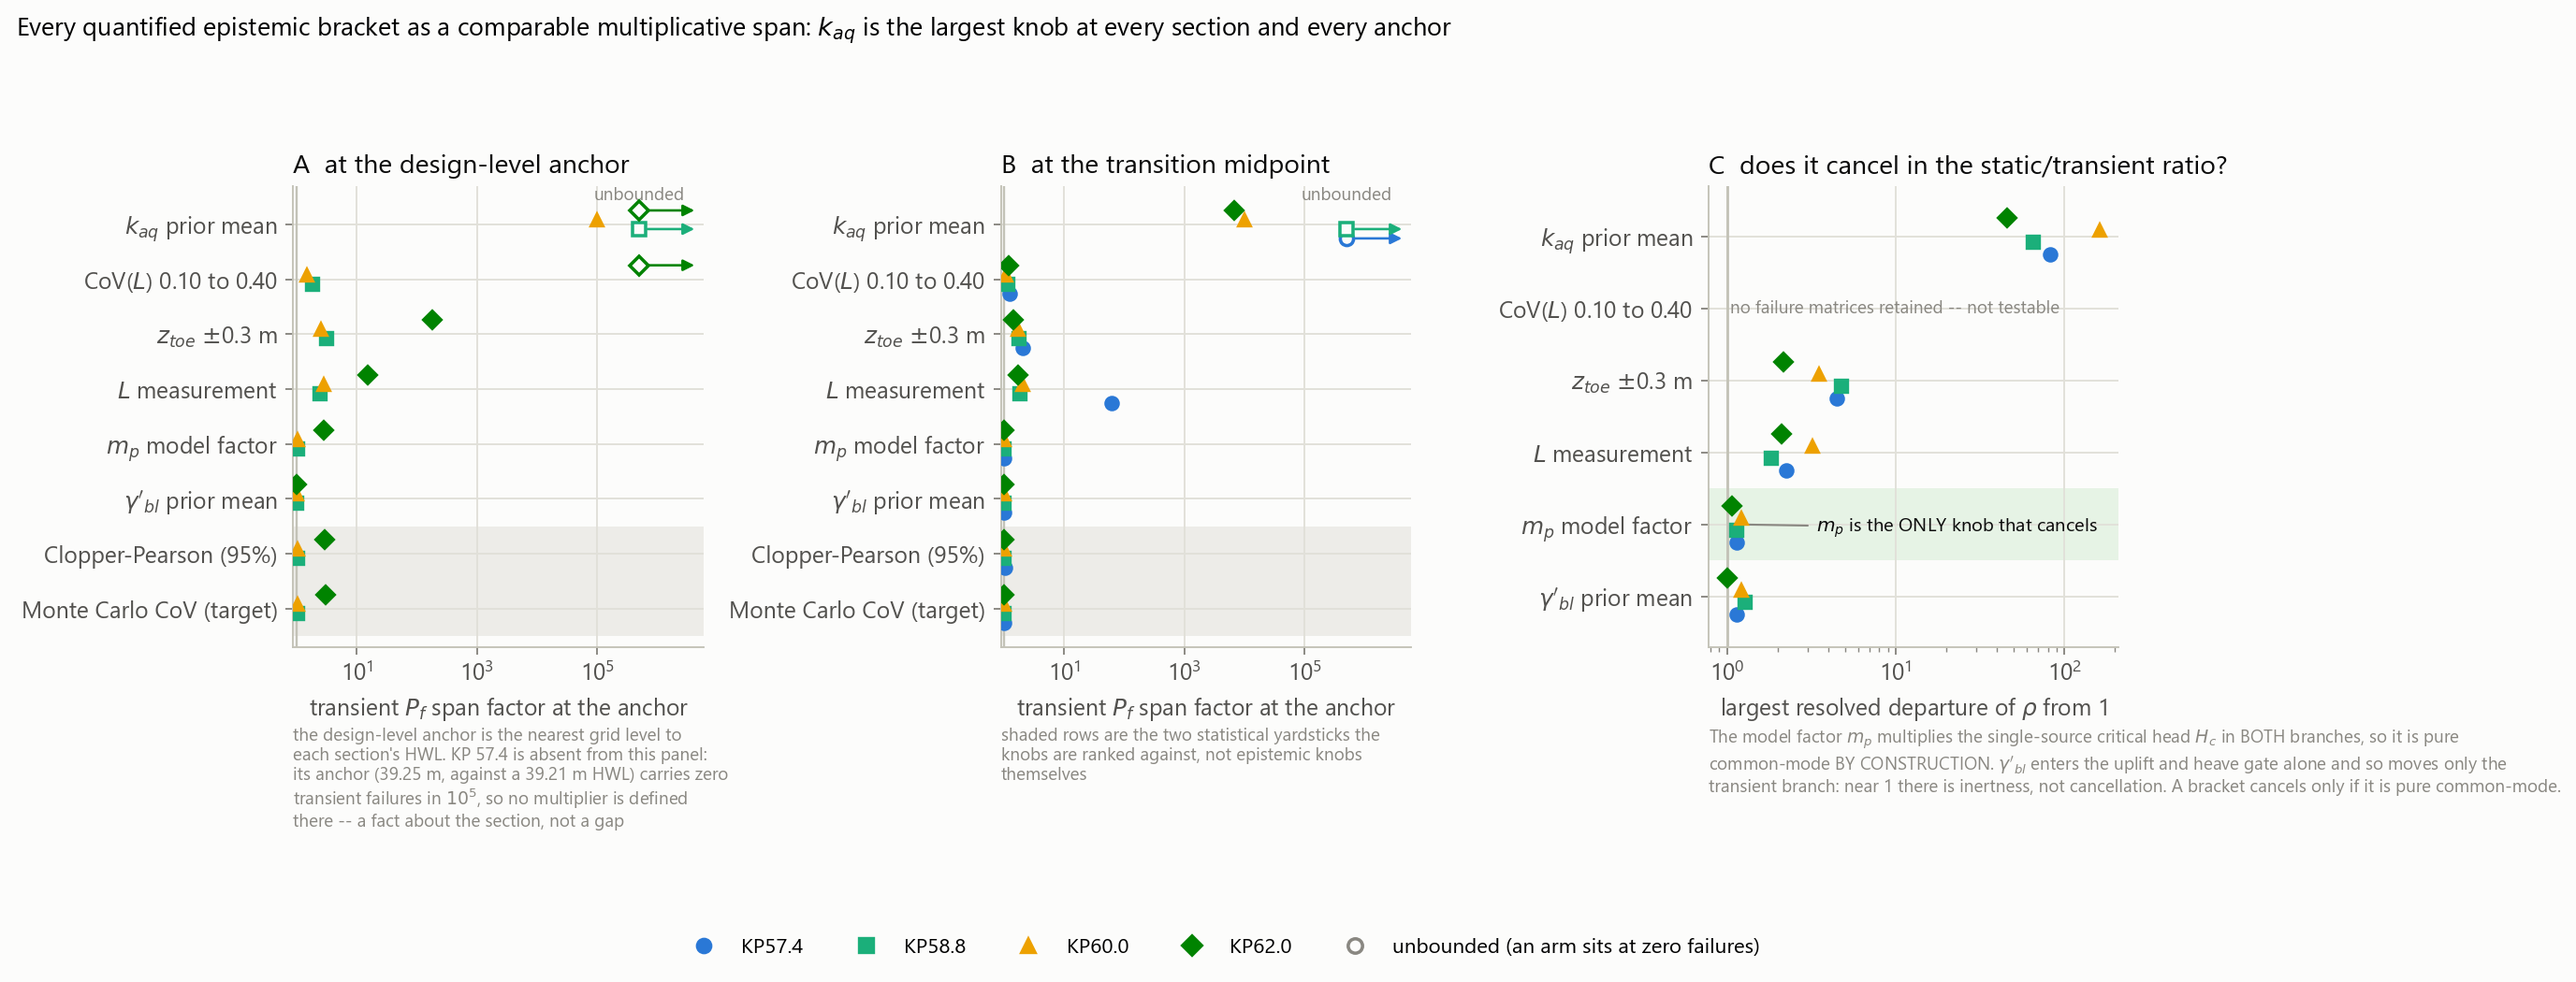
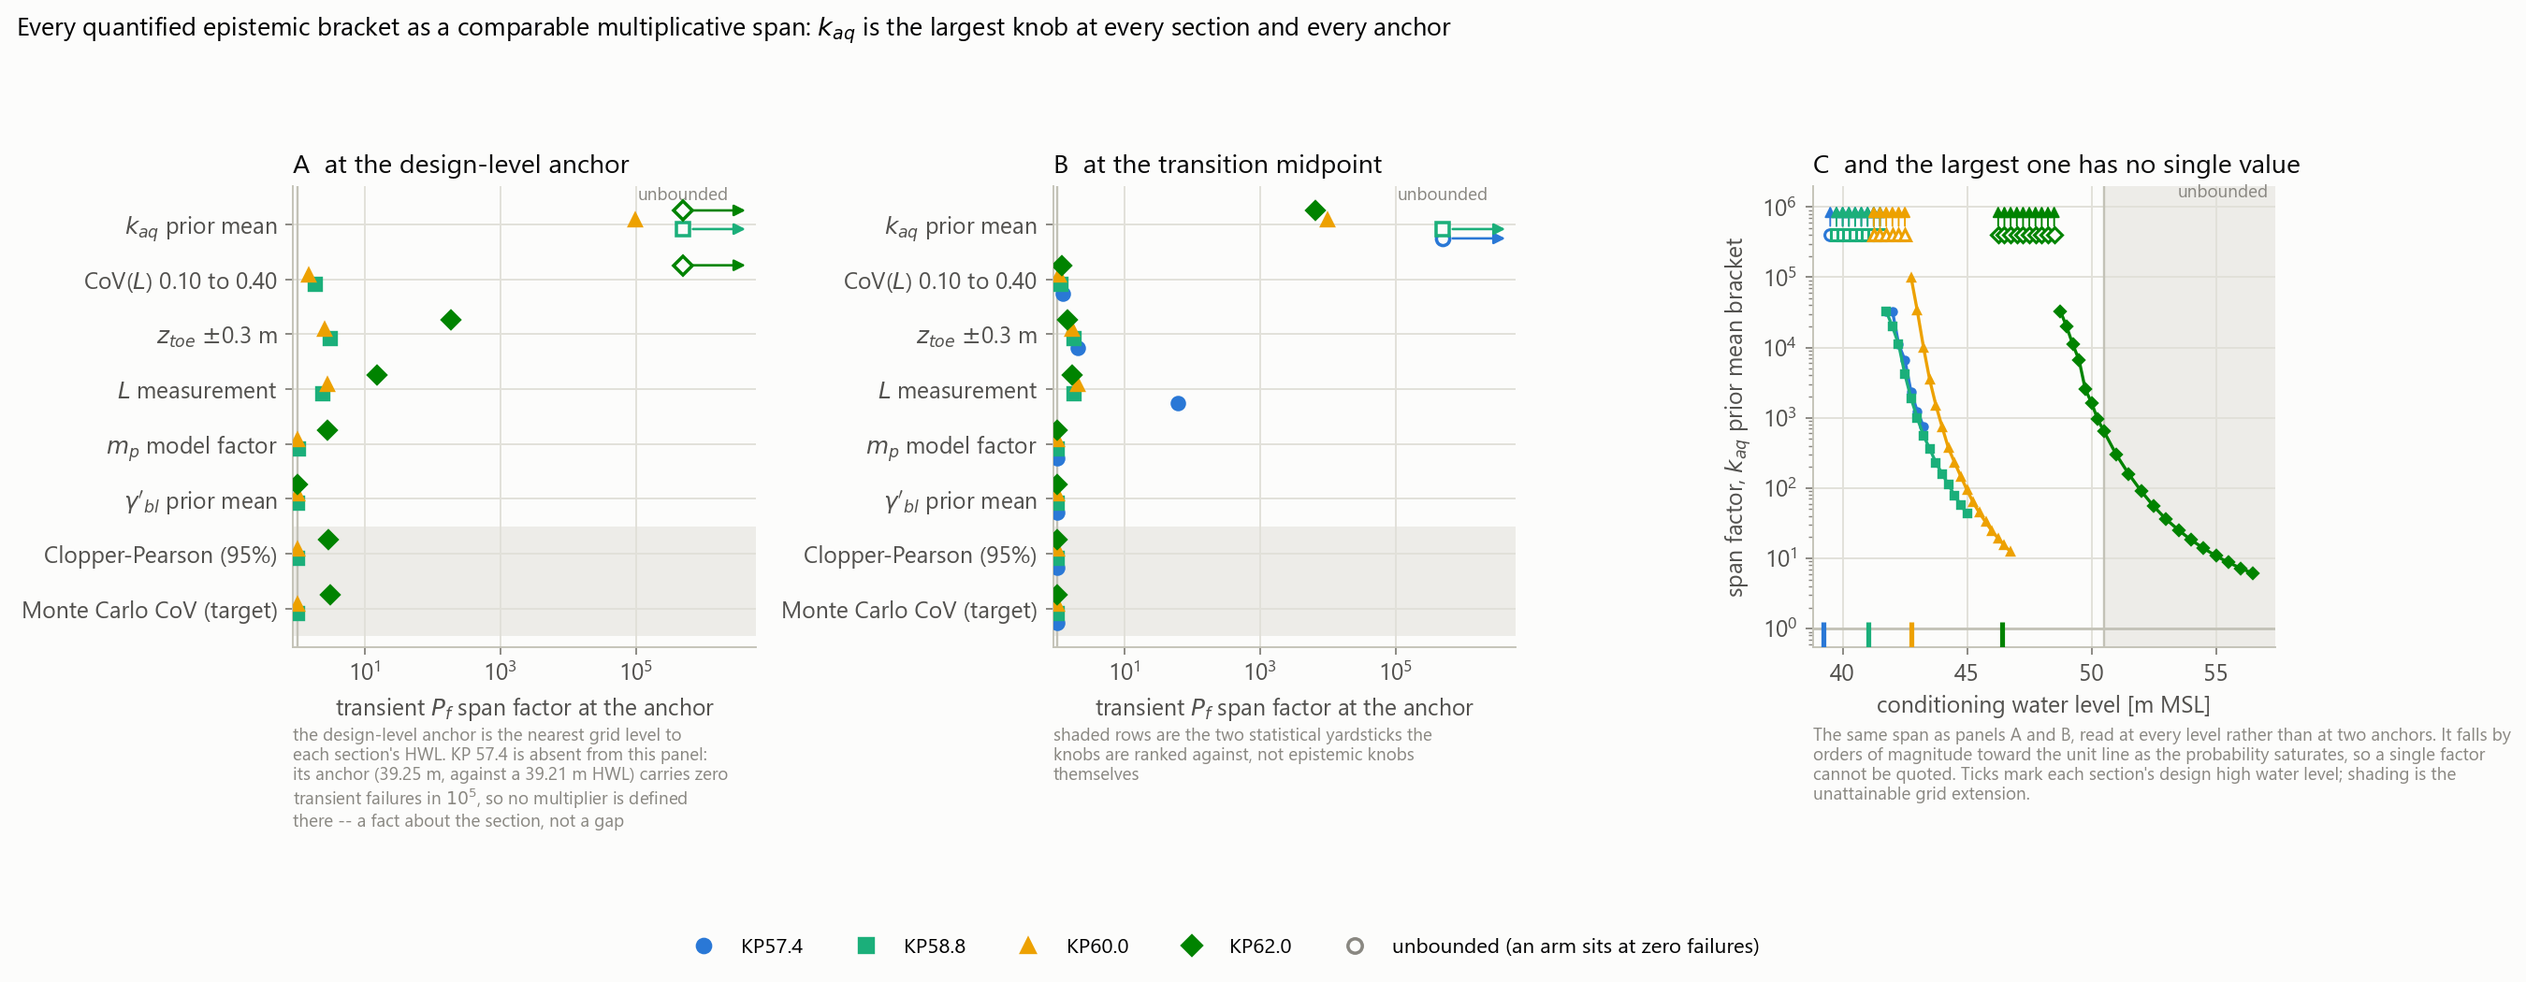
Replace the duplicated cancellation panel with the conductivity stage curve
A coherence audit of the thesis found panel C of epistemic_bracket_ranking.png
and the right panel of epistemic_vs_statistical.png plotting the same
quantity: the largest resolved ratio-of-ratios departure per bracket, over the
same four sections, from the same record. The bar panel is the better of the
two, because it carries the Clopper-Pearson yardstick on the same axis, so
panel C is the one to change.

Panel C now takes the bracket that wins the ranking in panels A and B and
plots the same span across the whole conditioning grid. That is the one claim
the thesis makes about that bracket and shows nowhere: it spans orders of
magnitude at the low-stage end and collapses toward the unit line as the
conditional probability saturates, so no single factor for it exists.

Every value comes from the committed record: grid_m_msl and
P_f_trans_baseline_curve per section, P_f_trans_arm per arm per level, and
hwl_m_msl for the axis ticks. The new _bracket_span_curve reproduces the
record's own ratio_min and ratio_max at all five anchors of all four sections,
which is the provenance gate on the curve, and it keeps unbounded (an arm at
zero failures) apart from not defined (the baseline at zero failures) exactly
as _span_cell does.

The cancellation numbers are not lost with the panel. They stay in this
figure's own table source, in the cancellation_arm and
max_resolved_departure_factor columns, which is why the CSV is byte-identical
[…]

diff --git a/scripts/thesis_figure_gaps.py b/scripts/thesis_figure_gaps.py
@@ -800,6 +800,48 @@ def _span_cell(section: dict[str, Any], bracket: str, anchor: str) -> dict[str, 
     }
 
 
+def _bracket_span_curve(section: dict[str, Any], bracket: str) -> list[dict[str, Any]]:
+    """The bracket's multiplicative span at *every* conditioning level.
+
+    ``_span_cell`` reads the span the record precomputes at its five named
+    anchors. This forms the same quantity over the whole grid, which the record
+    stores in the form it costs least to store: the stage grid and the baseline
+    curve once per section, and each arm's own ``P_f_trans_arm`` per level. The
+    span is the largest transient failure probability any arm of the bracket
+    produces divided by the smallest, both relative to the same baseline, so it
+    is identical whether it is formed from the probabilities or from the ratios.
+
+    Reproduces the record's own ``ratio_min`` and ``ratio_max`` at all five
+    anchors of all four sections, which is the provenance gate on this curve.
+
+    The two ways a number goes missing are kept apart exactly as in
+    ``_span_cell``: a level whose *baseline* carries no failure yields no
+    multiplier of any kind and is dropped, while a level where an *arm* sits at
+    zero failures is retained and marked ``unbounded``.
+    """
+    grid = section["grid_m_msl"]
+    baseline = section["P_f_trans_baseline_curve"]
+    arm_levels = [
+        section["arms"][arm]["levels"] for arm in section["brackets"][bracket]["arms"]
+    ]
+
+    curve: list[dict[str, Any]] = []
+    for index, stage in enumerate(grid):
+        base = float(baseline[index])
+        if base <= 0.0:
+            continue
+        ratios = [float(levels[index]["P_f_trans_arm"]) / base for levels in arm_levels]
+        low, high = min(ratios), max(ratios)
+        curve.append(
+            {
+                "stage_m_msl": float(stage),
+                "unbounded": low <= 0.0,
+                "span": None if low <= 0.0 else high / low,
+            }
+        )
+    return curve
+
+
 def _cancellation_by_bracket(section: dict[str, Any]) -> dict[str, dict[str, Any]]:
     """Per bracket, the worst resolved ratio-of-ratios departure over its arms.
 
@@ -855,11 +897,22 @@ def _bracket_order(sections: list[dict[str, Any]]) -> list[str]:
 def figure_epistemic_ranking(
     synthesis: dict[str, Any], attainable_max_kp62: float
 ) -> tuple[Path, list[dict[str, Any]]]:
-    """The brackets, four sections, ranked -- plus which one actually cancels.
+    """The brackets, four sections, ranked -- and the winner's stage dependence.
 
     Panels A and B are the ranking at the two anchors that carry the thesis's
-    claims. Panel C is the separate question the same study answered: whether a
-    bracket cancels when the static and transient branches are divided.
+    claims. Panel C takes the bracket that wins that ranking and plots its span
+    across the whole conditioning grid, which is the one claim the text makes
+    about it that no figure showed: it spans orders of magnitude at the
+    low-stage end and collapses toward unity as the conditional probability
+    saturates, so no single factor for it exists.
+
+    Panel C carried the cancellation test until 2026-08-15, when a coherence
+    audit found it drew the same quantity as the bar panel of
+    ``epistemic_vs_statistical.png``, which additionally carries the
+    Clopper-Pearson yardstick on the same axis and is therefore the better of
+    the two. The cancellation numbers are not lost with the panel: every one of
+    them stays in this figure's own table source, in the ``cancellation_arm``
+    and ``max_resolved_departure_factor`` columns built below.
     """
     sections = {s["section"]: s for s in synthesis["sections"]}
     ordered = _bracket_order(synthesis["sections"])
@@ -985,68 +1038,108 @@ def figure_epistemic_ranking(
         va="top",
     )
 
-    # --- Panel C: does the bracket cancel in the static/transient ratio? ----- #
+    # --- Panel C: the top knob has no single value, it depends on stage ------ #
+    # Panels A and B are two stage slices of the ranking; this is the whole
+    # stage axis for the knob that wins it. The bracket is the same quantity
+    # those panels plot, so the panel needs no second definition: what it adds
+    # is that the number they report is a reading off a curve, not a constant.
+    # ``ordered`` is computed from the evidence, so the panel draws whichever
+    # bracket the ranking actually puts first.
     axc = axes[2]
-    for row, bracket in enumerate(ordered):
-        y = len(ordered) - 1 - row
-        if bracket == COMMON_MODE_BRACKET:
-            axc.axhspan(
-                y - 0.5, y + 0.5, color=figstyle.GOOD, alpha=0.09, lw=0, zorder=0
-            )
-        drawn = 0
-        for name in SECTIONS:
-            record = cancellation[name].get(bracket)
-            if record is None:
-                continue
-            drawn += 1
+    largest = ordered[0]
+    curves = {name: _bracket_span_curve(sections[name], largest) for name in SECTIONS}
+
+    spans = [
+        float(point["span"])
+        for curve in curves.values()
+        for point in curve
+        if point["span"] is not None
+    ]
+    # The unbounded levels sit in a strip above every finite value, so that the
+    # eye never reads one as a large finite span.
+    y_unbounded = max(spans) * 4.0
+    for name in SECTIONS:
+        colour = figstyle.SECTION_COLORS[name]
+        marker = figstyle.SECTION_MARKERS[name]
+        finite = [p for p in curves[name] if p["span"] is not None]
+        axc.plot(
+            [p["stage_m_msl"] for p in finite],
+            [float(p["span"]) for p in finite],
+            marker=marker,
+            color=colour,
+            ms=3.4,
+            lw=1.4,
+            zorder=4,
+        )
+        for point in (p for p in curves[name] if p["unbounded"]):
             axc.plot(
-                [record["max_resolved_departure_factor"]],
-                [y + (SECTIONS.index(name) - 1.5) * 0.17],
-                marker=figstyle.SECTION_MARKERS[name],
-                color=figstyle.SECTION_COLORS[name],
-                ms=6.0,
+                [point["stage_m_msl"]],
+                [y_unbounded],
+                marker=marker,
+                color=colour,
+                ms=5.0,
+                mfc=figstyle.SURFACE,
+                mew=1.3,
                 ls="none",
                 zorder=4,
             )
-        if drawn == 0:
-            # An empty row would read as "cancels perfectly". The CoV(L) curves
-            # come from the seepage-length study at N = 30000 and no failure
-            # matrices were retained, so the paired-bootstrap test cannot run.
-            axc.text(
-                1.05,
-                y,
-                "no failure matrices retained -- not testable",
-                fontsize=8,
-                color=figstyle.MUTED,
-                va="center",
-                ha="left",
+            axc.annotate(
+                "",
+                xy=(point["stage_m_msl"], y_unbounded * 2.6),
+                xytext=(point["stage_m_msl"], y_unbounded * 1.35),
+                arrowprops={
+                    "arrowstyle": "-|>",
+                    "color": colour,
+                    "lw": 0.8,
+                    "shrinkA": 0,
+                    "shrinkB": 0,
+                },
             )
-    axc.axvline(1.0, color=figstyle.BASELINE, lw=1.2)
-    axc.set_xscale("log")
-    axc.set_ylim(-0.7, len(ordered) - 0.3)
-    axc.set_yticks(list(range(len(ordered)))[::-1])
-    axc.set_yticklabels([BRACKET_LABEL[b] for b in ordered])
-    axc.set_xlabel(r"largest resolved departure of $\rho$ from 1")
-    axc.set_title("C  does it cancel in the static/transient ratio?", loc="left")
-    axc.annotate(
-        "$m_p$ is the ONLY knob that cancels",
-        xy=(1.16, len(ordered) - 1 - ordered.index(COMMON_MODE_BRACKET)),
-        xytext=(3.4, len(ordered) - 1 - ordered.index(COMMON_MODE_BRACKET) - 0.05),
-        fontsize=8.5,
-        color=figstyle.INK,
-        ha="left",
-        va="center",
-        arrowprops={"arrowstyle": "-", "color": figstyle.MUTED, "lw": 0.9},
+        # A tick on the axis, not a full rule: four vertical lines across a
+        # panel this narrow would compete with the curves they annotate.
+        axc.plot(
+            [sections[name]["hwl_m_msl"]] * 2,
+            [0.0, 0.055],
+            transform=axc.get_xaxis_transform(),
+            color=colour,
+            lw=2.2,
+            solid_capstyle="butt",
+            zorder=5,
+        )
+
+    axc.axhline(1.0, color=figstyle.BASELINE, lw=1.2)
+    axc.set_yscale("log")
+    axc.set_ylim(0.55, y_unbounded * 5.0)
+    axc.set_xlim(min(p["stage_m_msl"] for c in curves.values() for p in c) - 0.7, 57.4)
+    axc.set_xlabel("conditioning water level [m MSL]")
+    axc.set_ylabel(f"span factor, {BRACKET_LABEL[largest]} bracket")
+    axc.set_title("C  and the largest one has no single value", loc="left")
+    figstyle.mark_hypothetical(axc, attainable_max_kp62, label=False)
+    # ``get_yaxis_transform`` takes x as an axes fraction and y in data units,
+    # so the label tracks the unbounded strip whatever the finite maximum is.
+    # It sits above the arrow tips, the one band clear of every mark.
+    axc.text(
+        0.985,
+        y_unbounded * 3.1,
+        "unbounded",
+        transform=axc.get_yaxis_transform(),
+        fontsize=8,
+        color=figstyle.MUTED,
+        ha="right",
+        va="bottom",
     )
     axc.text(
         0.0,
         -0.175,
-        "The model factor $m_p$ multiplies the single-source critical head "
-        "$H_c$ in BOTH branches, so it is pure\n"
-        r"common-mode BY CONSTRUCTION. $\gamma'_{bl}$ enters the uplift and "
-        "heave gate alone and so moves only the\n"
-        "transient branch: near 1 there is inertness, not cancellation. A "
-        "bracket cancels only if it is pure common-mode.",
+        # No decade count is quoted here: the fall runs from 1.6 decades at
+        # KP 57.4, whose grid stops before saturation, to 3.9 at KP 60.0, so
+        # any single figure would be wrong for two of the four sections.
+        "The same span as panels A and B, read at every level rather than at "
+        "two anchors. It falls by\n"
+        "orders of magnitude toward the unit line as the probability "
+        "saturates, so a single factor\n"
+        "cannot be quoted. Ticks mark each section's design high water "
+        "level; shading is the\nunattainable grid extension.",
         transform=axc.transAxes,
         fontsize=8,
         color=figstyle.MUTED,
